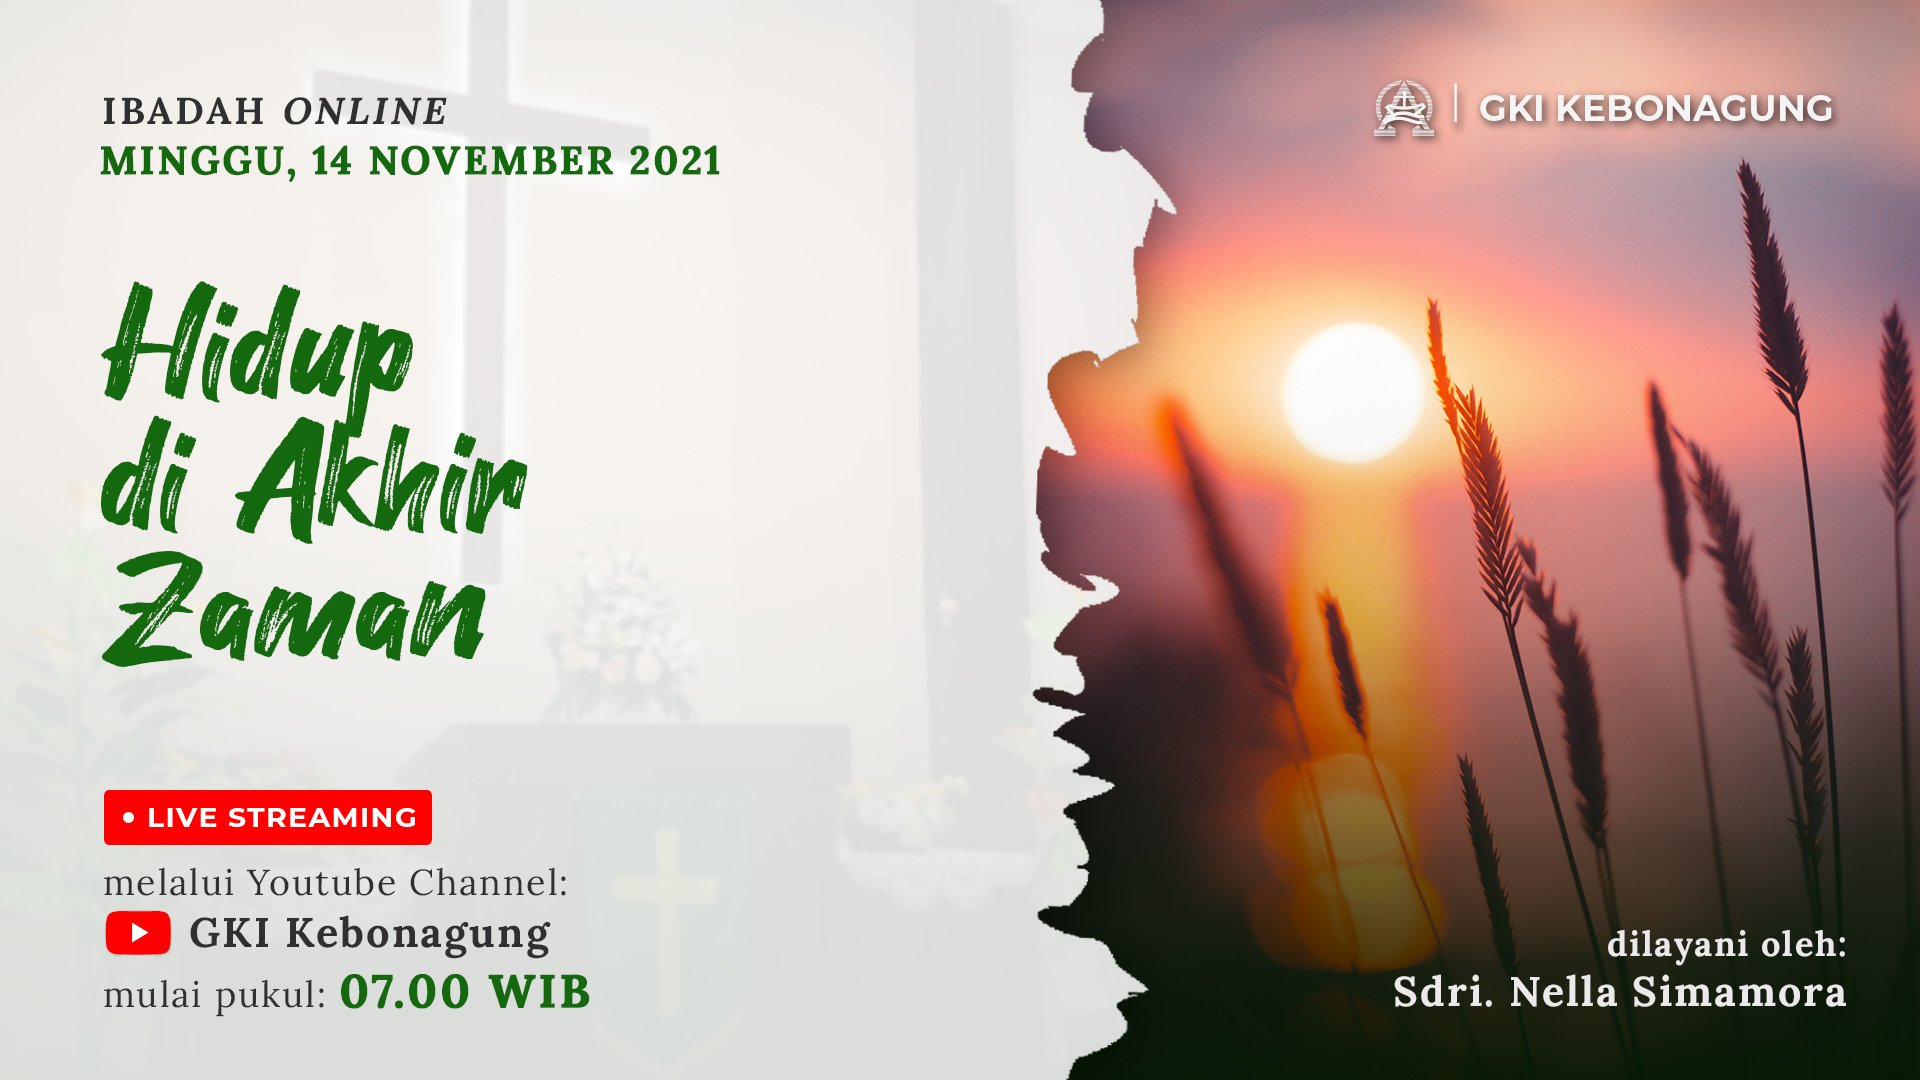
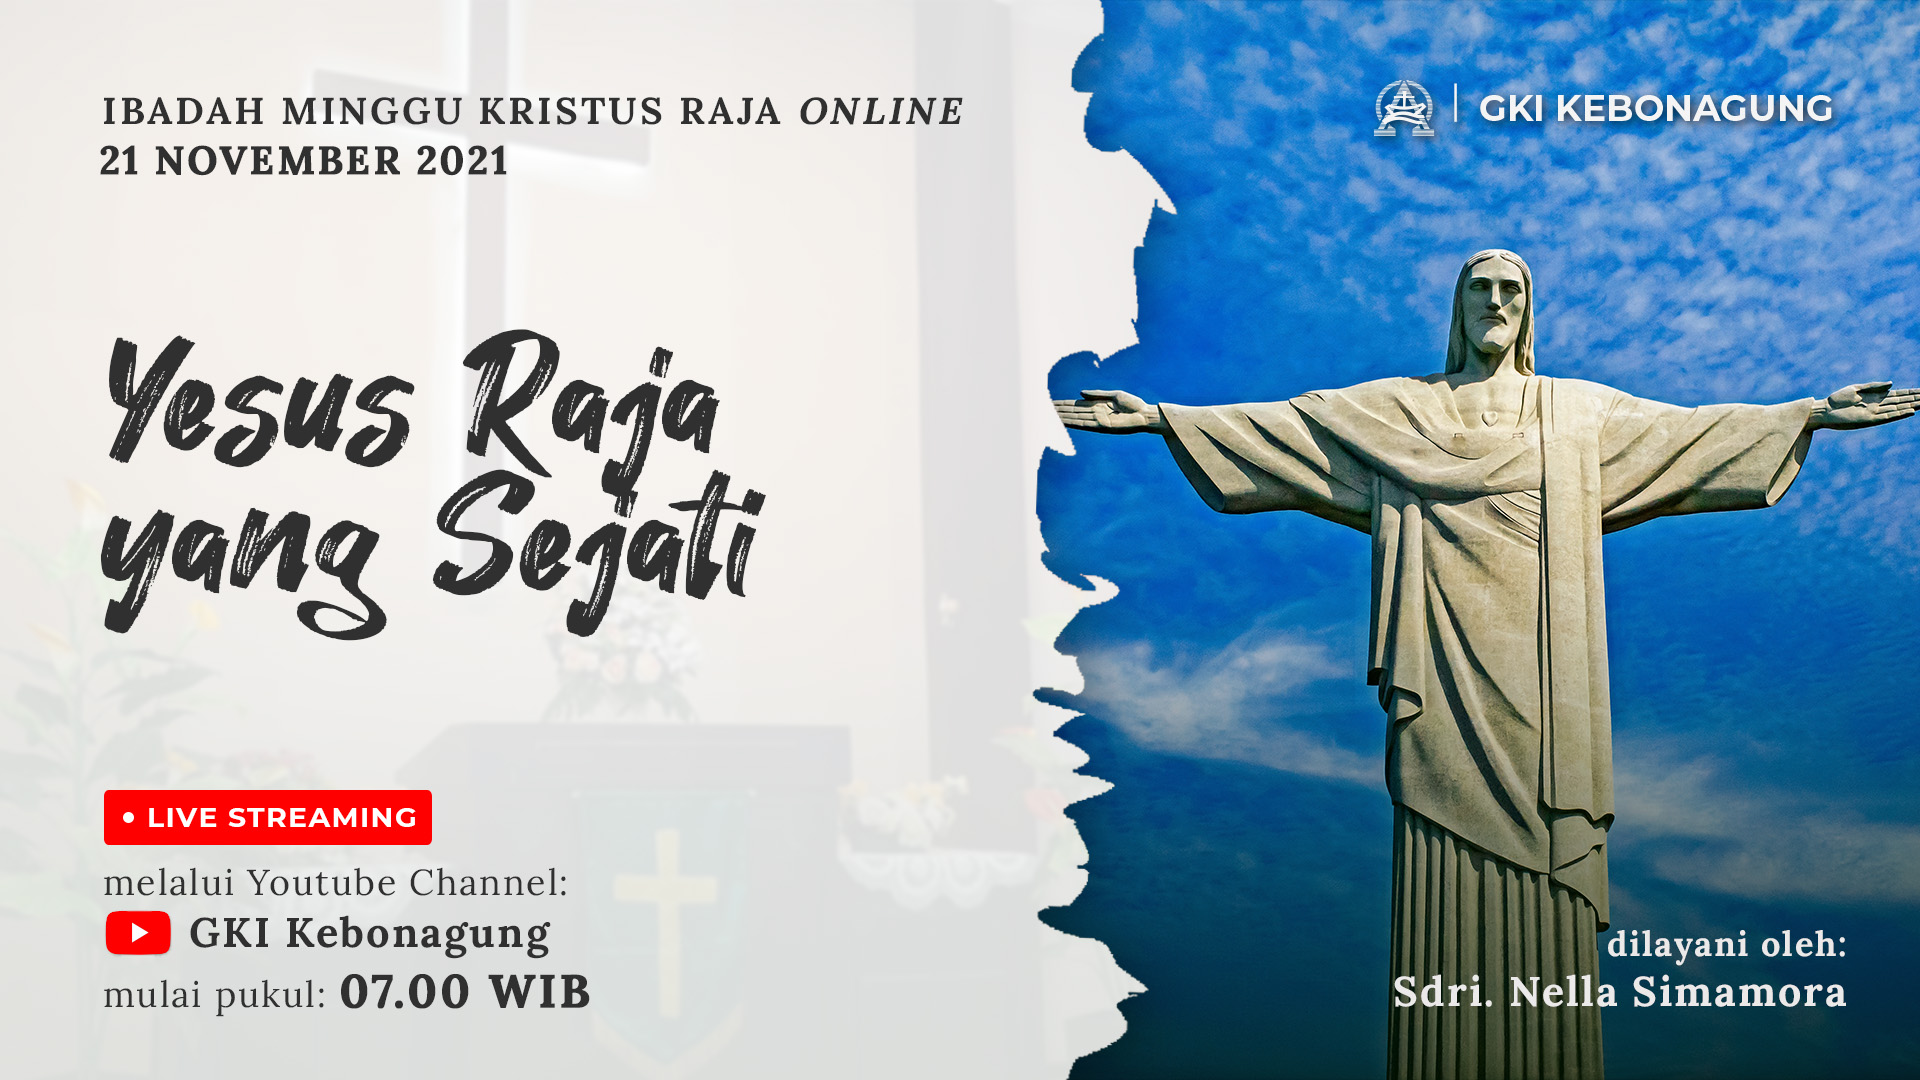
update 17 November 2021 3

diff --git a/application/views/Front/vLandingpage.php b/application/views/Front/vLandingpage.php
@@ -68,7 +68,7 @@
                     <h2 class="text-white mt-0">Pengumuman Penting!</h2>
                     <hr class="divider divider-light" />
                     <p class="text-white-75 mb-5">
-                        Sehubungan dengan penurunan level PPKM maka ibadah <b class="text-white"><i>onsite-online (hybrid)</i></b> dengan perwakilan jemaat telah dilaksanakan mulai <b class="text-white">31 Oktober 2021</b>. <br><b class="text-white">Syarat: Prokes, sudah mendapatkan vaksin, berusia 13 – 70 tahun.</b> <br><br>Untuk ibadah mulai tanggal 14 November 2021, jemaat yang ingin hadir dalam ibadah <i>on-site</i> di gereja dapat mendaftarkan diri terlebih dahulu melalui <i>link</i> di bawah ini atau dapat juga melalui koordinator lingkungan masing-masing.
+                        Sehubungan dengan penurunan level PPKM maka ibadah <b class="text-white"><i>onsite-online (hybrid)</i></b> dengan perwakilan jemaat telah dilaksanakan mulai <b class="text-white">31 Oktober 2021</b>. <br><b class="text-white">Syarat: Prokes, sudah mendapatkan vaksin, berusia 13 – 70 tahun.</b> <br><br>Untuk ibadah mulai tanggal 21 November 2021, jemaat yang ingin hadir dalam ibadah <i>on-site</i> di gereja dapat mendaftarkan diri terlebih dahulu melalui <i>link</i> di bawah ini atau dapat juga melalui koordinator lingkungan masing-masing.
                     </p>
                     <a class="btn btn-light btn-xl" href="<?= base_url() ?>Fronts/pilihOnsite">DAFTAR IBADAH <i>ON-SITE</i></a>
                 </div>
@@ -91,17 +91,17 @@
                     <div class="mt-5">
                         <div class="card text-center shadow mx-3">
                             <!-- UBAH -->
-                            <a href="https://youtu.be/ivbaDt7Qaxc" target="_blank" class="text-decoration-none">
+                            <a href="https://youtu.be/KnfG9_mY-lk" target="_blank" class="text-decoration-none">
                                 <img src="<?= base_url() ?>front/assets/img/umum.jpg" class="card-img-top">
                             </a>
                             <div class="card-body">
                                 <h4 class="card-title">Ibadah Umum</h4>
                                 <!-- UBAH -->
-                                <p class="card-text">"Hidup di Akhir Zaman"<br>Minggu, 14 November 2021 - 07.00 WIB <br>Sdri. Nella Simamora</p>
+                                <p class="card-text">"Yesus Raja yang Sejati"<br>Minggu, 21 November 2021 - 07.00 WIB <br>Sdri. Nella Simamora</p>
                             </div>
                             <div class="card-body">
                                 <!-- UBAH -->
-                                <a href="https://youtu.be/ivbaDt7Qaxc" target="_blank" class="btn btn-primary mb-2 px-5" style="border-radius: 10rem; font-size: 11pt">Link</a>
+                                <a href="https://youtu.be/KnfG9_mY-lk" target="_blank" class="btn btn-primary mb-2 px-5" style="border-radius: 10rem; font-size: 11pt">Link</a>
                             </div>
                         </div>
                     </div>
@@ -116,7 +116,7 @@
                             <div class="card-body">
                                 <h4 class="card-title">Sekolah Minggu</h4>
                                 <!-- UBAH -->
-                                <p class="card-text">"Surprise!"<br>Minggu, 14 November 2021 - 09.00 WIB <br>Kak Brina & Bu Datik</p>
+                                <p class="card-text">"Surprise!"<br>Minggu, 21 November 2021 - 09.00 WIB <br>Kak Brina & Bu Datik</p>
                             </div>
                             <div class="card-body">
                                 <!-- UBAH -->
@@ -135,7 +135,7 @@
                             <div class="card-body">
                                 <h4 class="card-title">Persekutuan KPR</h4>
                                 <!-- UBAH -->
-                                <p class="card-text">"Gereja dalam Gereja"<br>Minggu, 14 November 2021 - 17.00 WIB <br>Pdt. Imanuel Gunawan Prasidi</p>
+                                <p class="card-text">"Gereja dalam Gereja"<br>Minggu, 21 November 2021 - 17.00 WIB <br>Pdt. Imanuel Gunawan Prasidi</p>
                             </div>
                             <div class="card-body">
                                 <!-- UBAH -->
@@ -149,7 +149,7 @@
                         <div class="card text-center shadow mx-3">
                             <!-- UBAH -->
                             <a href="https://meet.google.com/qtc-fuvq-kpu" target="_blank" class="text-decoration-none">
-                                <img src="<?= base_url() ?>front/assets/img/sarasehan.jpg" class="card-img-top">
+                                <img src="<?= base_url() ?>front/assets/img/pa.jpg" class="card-img-top">
                             </a>
                             <div class="card-body">
                                 <h4 class="card-title">Pemahaman Alkitab</h4>
@@ -250,7 +250,7 @@
                         <div class="mb-2"><i class="bi bi-file-earmark-text fs-1 text-primary"></i></div>
                         <h3 class="h4 mb-2">Warta Jemaat</h3>
                         <!-- UBAH -->
-                        <a class="text-decoration-none" href="<?= base_url() ?>front/assets/docs/warta.docx" download="Warta Jemaat 14 November 2021">
+                        <a class="text-decoration-none" href="<?= base_url() ?>front/assets/docs/warta.docx" download="Warta Jemaat 21 November 2021">
                             <span class="h6 text-light"><i class="bi bi-download fs-4 mx-1"></i>
                                 Download
                             </span>
@@ -262,7 +262,7 @@
                         <div class="mb-2"><i class="bi bi-file-earmark-text fs-1 text-primary"></i></div>
                         <h3 class="h4 mb-2">Liturgi Ibadah Umum</h3>
                         <!-- UBAH -->
-                        <a class="text-decoration-none" href="<?= base_url() ?>front/assets/docs/liturgi.docx" download="Liturgi Ibadah 14 November 2021"> <span class="h6 text-light"><i class="bi bi-download fs-4 mx-1"></i>
+                        <a class="text-decoration-none" href="<?= base_url() ?>front/assets/docs/liturgi.docx" download="Liturgi Ibadah 21 November 2021"> <span class="h6 text-light"><i class="bi bi-download fs-4 mx-1"></i>
                                 Download
                             </span>
                         </a>
